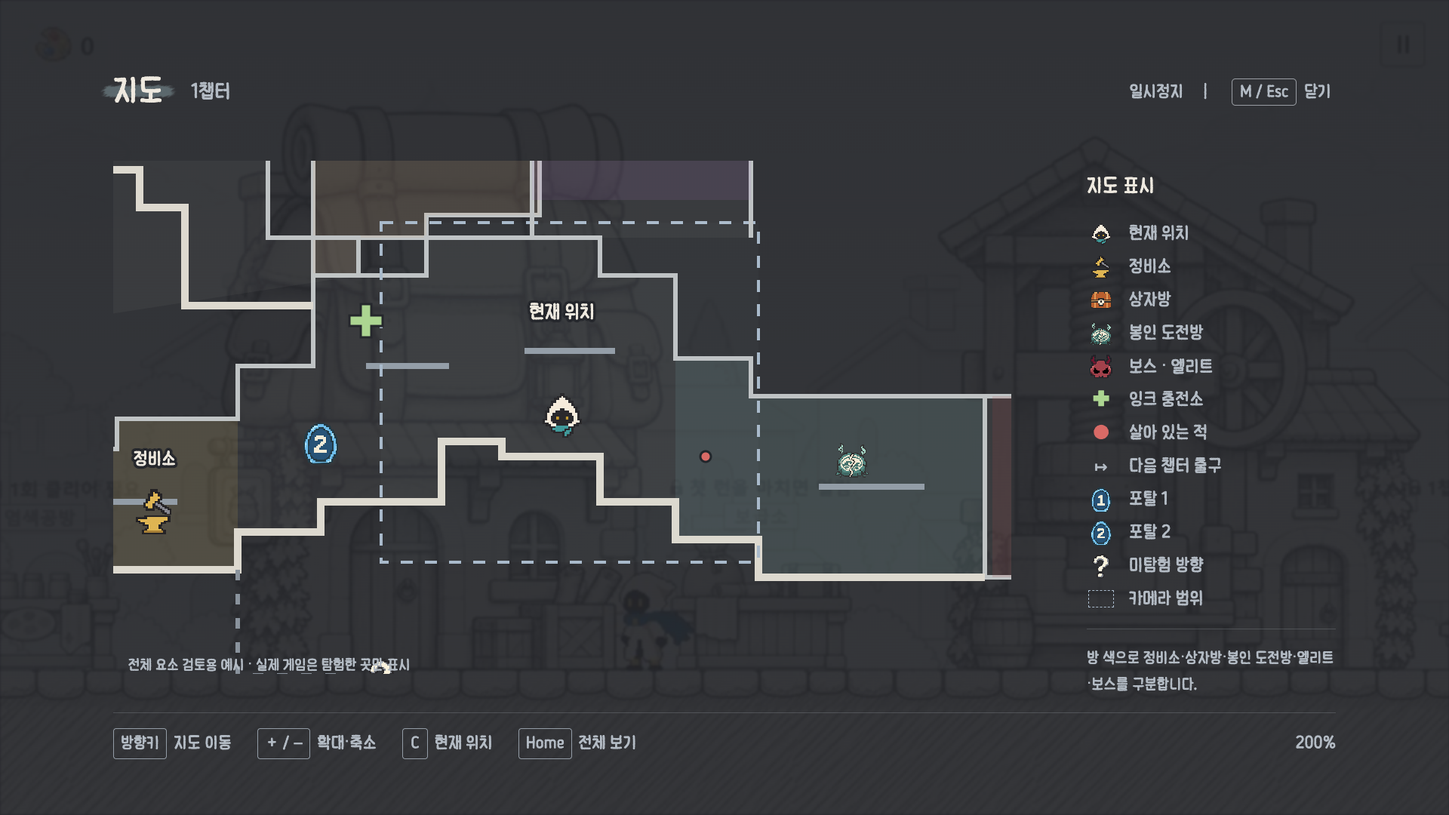
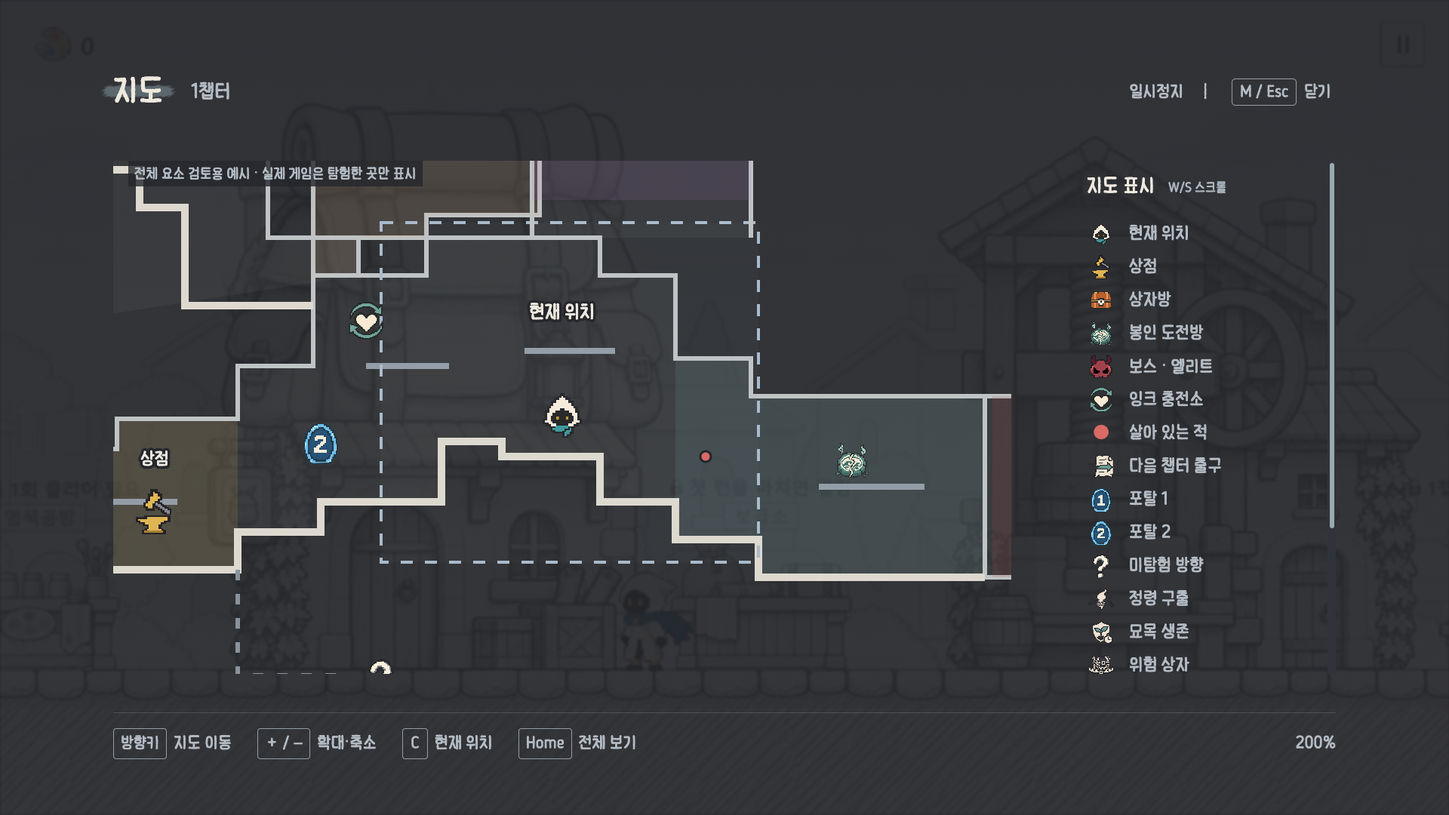
Complete map event previews and document Unity integration boundary

diff --git a/ui/work/theme/ink-pixel-v1/full-map-v1/index.html b/ui/work/theme/ink-pixel-v1/full-map-v1/index.html
@@ -1,6 +1,6 @@
 <!doctype html><html lang="ko"><meta charset="utf-8"><title>Deviant · 전체 지도</title><style>
 @font-face{font-family:Kkuk;src:url(../assembly-v1/fonts/MemomentKkukkukk.ttf)}*{box-sizing:border-box}body{margin:0;background:#24262b;color:var(--paper);font-family:Kkuk,sans-serif}button{font:inherit;color:inherit;background:none;border:0;cursor:pointer}button:focus-visible{outline:2px solid #b5d8e4;outline-offset:8px}.screen{width:1920px;height:1080px;position:relative;transform-origin:0 0;overflow:hidden}.world{position:absolute;inset:0;background:linear-gradient(#24262bf0,#24262bea),url(../screen-set-v6/assets/village.jpg) center/cover;filter:blur(1px)}main{position:relative;margin:0 150px;padding-top:85px}header{display:flex;height:72px;align-items:center;gap:36px}h1{font-size:43px;font-weight:normal;margin:0}header .chapter{font-size:27px;color:var(--muted)}header aside{margin-left:auto;font-size:23px;color:var(--muted)}kbd{font:inherit;font-size:22px;border:1px solid #999da3;border-radius:5px;padding:4px 10px;margin-right:10px}.heading{position:relative;isolation:isolate}.heading:after{content:'';position:absolute;inset:-12px -18px;background:url(../maintenance-palette-v1/assets/selection-wash-v1.png) center/contain no-repeat;opacity:.44;z-index:-1}.maplayout{display:grid;grid-template-columns:1190px 330px;gap:100px;margin-top:56px}.mapviewport{height:680px;position:relative;overflow:hidden;cursor:grab;touch-action:none}.mapviewport:active{cursor:grabbing}svg{width:1190px;height:680px;display:block;overflow:visible}svg text{font-family:Kkuk,sans-serif}.terrain{fill:#eee9df0b;stroke:#bfc3c4;stroke-width:3;stroke-linejoin:miter}.floor{fill:none;stroke:#ddd9cf;stroke-width:5}.platform{stroke:#939da7;stroke-width:4}.frontier{stroke:#8a939d;stroke-width:3;stroke-dasharray:7 9;fill:none}.camera{stroke:#a9bacb;stroke-width:2;stroke-dasharray:8 8;fill:#b5d8e406}.pin{paint-order:stroke;stroke:#25272c;stroke-width:8;stroke-linejoin:round}.legend h2{font-size:27px;font-weight:normal;margin:18px 0 28px;color:var(--paper)}.legend ul{padding:0;list-style:none;display:grid;gap:23px}.legend li{display:flex;align-items:center;gap:20px;font-size:27px;color:var(--muted);min-height:38px}.legend .symbol{width:38px;text-align:center;font-size:28px;display:inline-flex;align-items:center;justify-content:center}.loc{color:#a5ded4}.repair{color:#e0cc83}.boss{color:#e3a89c}.p1,.p2{font-size:26px!important;width:32px!important;height:34px;clip-path:polygon(20% 0,80% 0,100% 20%,100% 80%,80% 100%,20% 100%,0 80%,0 20%);color:var(--muted)}.p1{background:#abd8cf}.p2{background:#c7b2e5}.legend .sep{height:1px;background:#a8afb640;margin:31px 0}.legend p{font-size:23px;line-height:1.65;color:var(--muted)}.legend .cameraKey{border:1px dashed #a9bacb;width:34px;height:23px}.legend .unknown{color:var(--muted)}.footer{position:absolute;bottom:74px;left:150px;right:150px;display:flex;align-items:center;gap:34px;font-size:24px}.footer button{padding:0}.footer .zoom{margin-left:auto;color:var(--muted)}.mapCaption{position:absolute;bottom:0;left:20px;color:var(--muted);font-size:23px}.closed{position:absolute;inset:0;display:none;align-items:center;justify-content:center;background:#24262be8;z-index:3}.closed button{font-size:32px}.closed.show{display:flex}
-.mapIcon,.portalIcon{width:48px;height:48px;flex:none;object-fit:contain;image-rendering:pixelated}.legend li{gap:18px;min-height:48px}.legend ul{gap:8px}.portalIcon{position:relative;display:inline-flex;align-items:center;justify-content:center}.portalIcon img{position:absolute;width:100%;height:100%;image-rendering:pixelated}.portalIcon b{position:relative;font-size:23px;font-weight:normal}svg image{image-rendering:pixelated}.footer .zoom{color:var(--muted)}.legend li{font-size:24px;min-height:39px}.legend ul{gap:5px}.legend .mapIcon{width:38px;height:38px}.legend .sep{margin:20px 0}.legend p{font-size:21px}.mapCaption{font-size:20px} </style><link rel="stylesheet" href="../review-common.css"><div class="screen"><div class="world"></div><main><header><h1 class="heading">지도</h1><span class="chapter">1챕터</span><aside>일시정지　 |　 <button onclick="closeMap()"><kbd>M / Esc</kbd>닫기</button></aside></header><div class="maplayout"><div class="mapviewport" id="viewport"><svg viewBox="0 0 1190 680" role="img" aria-label="전체 요소 검토 지도: 현재 위치, 적, 정비소, 충전소, 상자방, 봉인 도전, 엘리트, 보스, 출구, 포탈 1과 2"><g id="map">
+.mapIcon,.portalIcon{width:48px;height:48px;flex:none;object-fit:contain;image-rendering:pixelated}.legend li{gap:18px;min-height:48px}.legend ul{gap:8px}.portalIcon{position:relative;display:inline-flex;align-items:center;justify-content:center}.portalIcon img{position:absolute;width:100%;height:100%;image-rendering:pixelated}.portalIcon b{position:relative;font-size:23px;font-weight:normal}svg image{image-rendering:pixelated}.footer .zoom{color:var(--muted)}.legend li{font-size:24px;min-height:39px}.legend ul{gap:5px}.legend .mapIcon{width:38px;height:38px}.legend .sep{margin:20px 0}.legend p{font-size:21px}.mapCaption{font-size:20px} .legend{height:680px;overflow-y:auto;padding-right:12px;scrollbar-color:#97aaae #30343a;scrollbar-width:thin}.legend .approvedMapArt{flex:none}.completionBadge{display:none}.eventRoom.completed .completionBadge{display:block}.eventRoom.completed>.fixedMarker>svg{opacity:.5}body{overflow:hidden}.mapCaption{background:#24262bcc;padding:5px 8px;top:0;bottom:auto}.legend h2 small{font-size:18px;color:#acb5c0;margin-left:12px}</style><link rel="stylesheet" href="../review-common.css"><div class="screen"><div class="world"></div><main><header><h1 class="heading">지도</h1><span class="chapter">1챕터</span><aside>일시정지　 |　 <button onclick="closeMap()"><kbd>M / Esc</kbd>닫기</button></aside></header><div class="maplayout"><div class="mapviewport" id="viewport"><svg viewBox="0 0 1190 680" role="img" aria-label="전체 요소 검토 지도: 현재 위치, 적, 상점, 충전소, 상자방, 봉인 도전, 엘리트, 보스, 출구, 포탈 1과 2"><g id="map">
 <path fill="#E4BE55" fill-opacity=".13" d="M415 385H460V365H540V465H455V475H415Z"/>
 <path fill="#78BEB5" fill-opacity=".12" d="M830 325H880V350H1035V470H885V445H830Z"/>
 <path class="terrain" d="M590 270V125H740V230H665V245H620V270Z"/>
@@ -21,13 +21,13 @@
 <g class="fixedMarker" data-x="160.0" data-y="452.0" transform="translate(160.0 452.0)"><image href="assets/portal-1.png" x="-32.0" y="-32.0" width="64" height="64"/></g>
 <g class="fixedMarker" data-x="595.0" data-y="381.0" transform="translate(595.0 381.0)"><image href="assets/portal-2.png" x="-32.0" y="-32.0" width="64" height="64"/></g>
 <g class="fixedMarker" data-x="485.0" data-y="426.0" transform="translate(485.0 426.0)"><image href="assets/workshop-yellow.png" x="-36.0" y="-36.0" width="72" height="72"/></g>
-<g class="fixedMarker" data-x="485" data-y="395" transform="translate(485 395)"><text class="pin" x="0" y="0" text-anchor="middle" font-size="24" fill="#eee9df">정비소</text></g>
+<g class="fixedMarker" data-x="485" data-y="395" transform="translate(485 395)"><text class="pin" x="0" y="0" text-anchor="middle" font-size="24" fill="#eee9df">상점</text></g>
 <g class="fixedMarker" data-x="755.0" data-y="362.0" transform="translate(755.0 362.0)"><image href="assets/player.png" x="-38.0" y="-38.0" width="76" height="76"/></g>
 <g class="fixedMarker" data-x="755" data-y="298" transform="translate(755 298)"><text class="pin" x="0" y="0" text-anchor="middle" font-size="26" fill="#eee9df">현재 위치</text></g>
 <path class="terrain" d="M735 245V75H880V245M1035 350H1180V470H1035"/>
 <path fill="#a372bb" fill-opacity=".14" d="M735 75H880V220H735Z"/><path fill="#a34848" fill-opacity=".16" d="M1040 350H1180V470H1040Z"/>
-<g class="fixedMarker" data-x="805" data-y="140" transform="translate(805 140)"><image href="assets/boss-crimson.png" x="-26.0" y="-26.0" width="52" height="52"/><text class="pin" y="48" text-anchor="middle" fill="#d6b9e2" font-size="22">엘리트</text></g><g class="fixedMarker" data-x="1100" data-y="403" transform="translate(1100 403)"><image href="assets/boss-crimson.png" x="-26.0" y="-26.0" width="52" height="52"/></g><g class="fixedMarker" data-x="625" data-y="300" transform="translate(625 300)"><path fill="#acd591" stroke="#25272c" stroke-width="3" d="M-7-22H7V-7H22V7H7V22H-7V7H-22V-7H-7Z"/></g><g class="fixedMarker" data-x="300" data-y="380" transform="translate(300 380)"><circle r="7" fill="#d96a66" stroke="#22262b" stroke-width="3"/></g><g class="fixedMarker" data-x="360" data-y="270" transform="translate(360 270)"><circle r="7" fill="#d96a66" stroke="#22262b" stroke-width="3"/></g><g class="fixedMarker" data-x="850" data-y="390" transform="translate(850 390)"><circle r="7" fill="#d96a66" stroke="#22262b" stroke-width="3"/></g><g class="fixedMarker" data-x="1160" data-y="403" transform="translate(1160 403)"><svg style="width:50px;height:50px;overflow:hidden" x="-25" y="-25" width="50" height="50" viewBox="390.78 558.78 265.44 265.44"><image href="../ui-assets-v1/atlases/world.png" width="1448" height="1086"/></svg></g></g></svg><div class="mapCaption">전체 요소 검토용 예시 · 실제 게임은 탐험한 곳만 표시</div></div><aside class="legend"><h2>지도 표시</h2><ul><li><img class="mapIcon" src="assets/player.png" alt="">현재 위치</li><li><img class="mapIcon" src="assets/workshop-yellow.png" alt="">정비소</li><li><img class="mapIcon" src="assets/chest.png" alt="">상자방</li><li><img class="mapIcon" src="assets/seal.png" alt="">봉인 도전방</li><li><img class="mapIcon" src="assets/boss-crimson.png" alt="">보스 · 엘리트</li><li><span class="symbol" style="color:#acd591">✚</span>잉크 충전소</li><li><span class="symbol" style="color:#d96a66">●</span>살아 있는 적</li><li><span class="symbol">↦</span>다음 챕터 출구</li><li><img class="mapIcon" src="assets/portal-1.png" alt="">포탈 1</li><li><img class="mapIcon" src="assets/portal-2.png" alt="">포탈 2</li><li><img class="mapIcon" src="assets/unknown.png" alt="">미탐험 방향</li><li><span class="symbol"><i class="cameraKey"></i></span>카메라 범위</li></ul><div class="sep"></div><p>방 색으로 정비소·상자방·봉인 도전방·엘리트·보스를 구분합니다.</p></aside></div></main><footer class="footer"><span><kbd>방향키</kbd>지도 이동</span><span><kbd>＋ / −</kbd>확대·축소</span><button onclick="centerPlayer()"><kbd>C</kbd>현재 위치</button><button onclick="reset()"><kbd>Home</kbd>전체 보기</button><span class="zoom" id="zoom">100%</span></footer><div id="closed" class="closed"><button onclick="openMap()">시안 닫힘　·　<kbd>M</kbd>다시 보기</button></div></div><script>
-let zoom=1,tx=0,ty=0,drag=null,isClosed=false;const map=document.getElementById('map'),vp=document.getElementById('viewport');function fit(){document.querySelector('.screen').style.transform=`scale(${Math.min(innerWidth/1920,innerHeight/1080)})`}onresize=fit;fit();function update(){tx=Math.max(-1190,Math.min(1190,tx));ty=Math.max(-680,Math.min(680,ty));map.setAttribute('transform',`translate(${tx} ${ty}) translate(595 340) scale(${zoom}) translate(-595 -340)`);document.querySelectorAll('.fixedMarker').forEach(el=>el.setAttribute('transform',`translate(${el.dataset.x} ${el.dataset.y}) scale(${1/zoom})`));document.getElementById('zoom').textContent=Math.round(zoom*100)+'%'}function reset(){zoom=1;tx=0;ty=0;update()}function centerPlayer(){tx=-(755-595)*zoom;ty=-(364-340)*zoom;update()}function changeZoom(n){zoom=Math.max(.75,Math.min(2,zoom+n));update()}function closeMap(){isClosed=true;document.getElementById('closed').classList.add('show')}function openMap(){isClosed=false;document.getElementById('closed').classList.remove('show')}document.addEventListener('keydown',e=>{let k=(e.code?.startsWith('Key')?e.code.slice(3).toLowerCase():e.key.toLowerCase());if(k==='m'||k==='escape'){e.preventDefault();isClosed?openMap():closeMap();return}if(isClosed)return;if(['arrowleft','arrowright','arrowup','arrowdown','+','=','-','c','home'].includes(k))e.preventDefault();if(k==='arrowleft')tx+=40;if(k==='arrowright')tx-=40;if(k==='arrowup')ty+=40;if(k==='arrowdown')ty-=40;if(k==='+'||k==='=')changeZoom(.25);if(k==='-')changeZoom(-.25);if(k==='c')centerPlayer();if(k==='home')reset();update()});vp.onwheel=e=>{e.preventDefault();changeZoom(e.deltaY<0?.25:-.25)};vp.onpointerdown=e=>{drag={x:e.clientX,y:e.clientY,tx,ty};vp.setPointerCapture(e.pointerId)};vp.onpointermove=e=>{if(!drag)return;const scale=Math.min(innerWidth/1920,innerHeight/1080);tx=drag.tx+(e.clientX-drag.x)/scale;ty=drag.ty+(e.clientY-drag.y)/scale;update()};vp.onpointerup=()=>drag=null;vp.onpointercancel=()=>drag=null;
-const initialZoom=Number(new URLSearchParams(location.search).get('zoom'));if(initialZoom>=.75&&initialZoom<=2){zoom=initialZoom;centerPlayer()}else update();</script></html>
+<g class="fixedMarker" data-x="805" data-y="140" transform="translate(805 140)"><image href="assets/boss-crimson.png" x="-26.0" y="-26.0" width="52" height="52"/><text class="pin" y="48" text-anchor="middle" fill="#d6b9e2" font-size="22">엘리트</text></g><g class="fixedMarker" data-x="1100" data-y="403" transform="translate(1100 403)"><image href="assets/boss-crimson.png" x="-26.0" y="-26.0" width="52" height="52"/></g><g class="fixedMarker" data-x="625" data-y="300" transform="translate(625 300)"><svg class="approvedMapArt" x="-28.0" y="-28.0" width="56" height="56" viewBox="374.91999999999996 748.42 328.16 328.16" style="width:56px;height:56px;overflow:hidden"><image href="../ui-assets-v1/atlases/seal.png" width="1448" height="1086"/></svg></g><g class="fixedMarker" data-x="300" data-y="380" transform="translate(300 380)"><circle r="7" fill="#d96a66" stroke="#22262b" stroke-width="3"/></g><g class="fixedMarker" data-x="360" data-y="270" transform="translate(360 270)"><circle r="7" fill="#d96a66" stroke="#22262b" stroke-width="3"/></g><g class="fixedMarker" data-x="850" data-y="390" transform="translate(850 390)"><circle r="7" fill="#d96a66" stroke="#22262b" stroke-width="3"/></g><g class="fixedMarker" data-x="1160" data-y="403" transform="translate(1160 403)"><svg style="width:50px;height:50px;overflow:hidden" x="-25" y="-25" width="50" height="50" viewBox="390.78 558.78 265.44 265.44"><image href="../ui-assets-v1/atlases/world.png" width="1448" height="1086"/></svg></g><g class="eventRoom" data-event="0"><rect class="terrain" x="80" y="565" width="150" height="95" style="fill:#8eb6ce;fill-opacity:.13"/><g class="fixedMarker" data-x="155" data-y="610"><svg class="approvedMapArt" x="-28.0" y="-28.0" width="56" height="56" viewBox="26.079999999999984 -20.420000000000016 315.84000000000003 315.84000000000003" style="width:56px;height:56px;overflow:hidden"><image href="../ui-assets-v1/atlases/world.png" width="1448" height="1086"/></svg><g class="completionBadge" transform="translate(28 -22)"><svg class="approvedMapArt" x="-12.0" y="-12.0" width="24" height="24" viewBox="659.62 357.62 249.76000000000002 249.76000000000002" style="width:24px;height:24px;overflow:hidden"><image href="../ui-assets-v1/atlases/controls.png" width="1254" height="1254"/></svg></g></g></g><g class="eventRoom" data-event="1"><rect class="terrain" x="350" y="565" width="150" height="95" style="fill:#8db690;fill-opacity:.13"/><g class="fixedMarker" data-x="425" data-y="610"><svg class="approvedMapArt" x="-28.0" y="-28.0" width="56" height="56" viewBox="387.79999999999995 -15.700000000000017 302.40000000000003 302.40000000000003" style="width:56px;height:56px;overflow:hidden"><image href="../ui-assets-v1/atlases/world.png" width="1448" height="1086"/></svg><g class="completionBadge" transform="translate(28 -22)"><svg class="approvedMapArt" x="-12.0" y="-12.0" width="24" height="24" viewBox="659.62 357.62 249.76000000000002 249.76000000000002" style="width:24px;height:24px;overflow:hidden"><image href="../ui-assets-v1/atlases/controls.png" width="1254" height="1254"/></svg></g></g></g><g class="eventRoom" data-event="2"><rect class="terrain" x="620" y="565" width="150" height="95" style="fill:#c49b77;fill-opacity:.13"/><g class="fixedMarker" data-x="695" data-y="610"><svg class="approvedMapArt" x="-28.0" y="-28.0" width="56" height="56" viewBox="747.0799999999999 -7.920000000000016 315.84000000000003 315.84000000000003" style="width:56px;height:56px;overflow:hidden"><image href="../ui-assets-v1/atlases/world.png" width="1448" height="1086"/></svg><g class="completionBadge" transform="translate(28 -22)"><svg class="approvedMapArt" x="-12.0" y="-12.0" width="24" height="24" viewBox="659.62 357.62 249.76000000000002 249.76000000000002" style="width:24px;height:24px;overflow:hidden"><image href="../ui-assets-v1/atlases/controls.png" width="1254" height="1254"/></svg></g></g></g><g class="eventRoom" data-event="3"><rect class="terrain" x="890" y="565" width="150" height="95" style="fill:#b4a1c9;fill-opacity:.13"/><g class="fixedMarker" data-x="965" data-y="610"><svg class="approvedMapArt" x="-28.0" y="-28.0" width="56" height="56" viewBox="1115.86 -17.640000000000015 301.28000000000003 301.28000000000003" style="width:56px;height:56px;overflow:hidden"><image href="../ui-assets-v1/atlases/world.png" width="1448" height="1086"/></svg><g class="completionBadge" transform="translate(28 -22)"><svg class="approvedMapArt" x="-12.0" y="-12.0" width="24" height="24" viewBox="659.62 357.62 249.76000000000002 249.76000000000002" style="width:24px;height:24px;overflow:hidden"><image href="../ui-assets-v1/atlases/controls.png" width="1254" height="1254"/></svg></g></g></g></g></svg><div class="mapCaption">전체 요소 검토용 예시 · 실제 게임은 탐험한 곳만 표시</div></div><aside class="legend"><h2>지도 표시 <small>W/S 스크롤</small></h2><ul><li><img class="mapIcon" src="assets/player.png" alt="">현재 위치</li><li><img class="mapIcon" src="assets/workshop-yellow.png" alt="">상점</li><li><img class="mapIcon" src="assets/chest.png" alt="">상자방</li><li><img class="mapIcon" src="assets/seal.png" alt="">봉인 도전방</li><li><img class="mapIcon" src="assets/boss-crimson.png" alt="">보스 · 엘리트</li><li><svg class="approvedMapArt" x="-19.0" y="-19.0" width="38" height="38" viewBox="374.91999999999996 748.42 328.16 328.16" style="width:38px;height:38px;overflow:hidden"><image href="../ui-assets-v1/atlases/seal.png" width="1448" height="1086"/></svg>잉크 충전소</li><li><span class="symbol" style="color:#d96a66">●</span>살아 있는 적</li><li><svg class="approvedMapArt" x="-19.0" y="-19.0" width="38" height="38" viewBox="390.78 558.78 265.44 265.44" style="width:38px;height:38px;overflow:hidden"><image href="../ui-assets-v1/atlases/world.png" width="1448" height="1086"/></svg>다음 챕터 출구</li><li><img class="mapIcon" src="assets/portal-1.png" alt="">포탈 1</li><li><img class="mapIcon" src="assets/portal-2.png" alt="">포탈 2</li><li><img class="mapIcon" src="assets/unknown.png" alt="">미탐험 방향</li><li><svg class="approvedMapArt" x="-19.0" y="-19.0" width="38" height="38" viewBox="26.079999999999984 -20.420000000000016 315.84000000000003 315.84000000000003" style="width:38px;height:38px;overflow:hidden"><image href="../ui-assets-v1/atlases/world.png" width="1448" height="1086"/></svg> 정령 구출</li><li><svg class="approvedMapArt" x="-19.0" y="-19.0" width="38" height="38" viewBox="387.79999999999995 -15.700000000000017 302.40000000000003 302.40000000000003" style="width:38px;height:38px;overflow:hidden"><image href="../ui-assets-v1/atlases/world.png" width="1448" height="1086"/></svg> 묘목 생존</li><li><svg class="approvedMapArt" x="-19.0" y="-19.0" width="38" height="38" viewBox="747.0799999999999 -7.920000000000016 315.84000000000003 315.84000000000003" style="width:38px;height:38px;overflow:hidden"><image href="../ui-assets-v1/atlases/world.png" width="1448" height="1086"/></svg> 위험 상자</li><li><svg class="approvedMapArt" x="-19.0" y="-19.0" width="38" height="38" viewBox="1115.86 -17.640000000000015 301.28000000000003 301.28000000000003" style="width:38px;height:38px;overflow:hidden"><image href="../ui-assets-v1/atlases/world.png" width="1448" height="1086"/></svg> 함정 수집</li><li><span class="symbol"><i class="cameraKey"></i></span>카메라 범위</li></ul><div class="sep"></div><p>방 색과 아이콘으로 구분합니다. 완료한 이벤트는 옅은 아이콘과 체크로 표시합니다.</p></aside></div></main><footer class="footer"><span><kbd>방향키</kbd>지도 이동</span><span><kbd>＋ / −</kbd>확대·축소</span><button onclick="centerPlayer()"><kbd>C</kbd>현재 위치</button><button onclick="reset()"><kbd>Home</kbd>전체 보기</button><span class="zoom" id="zoom">100%</span></footer><div id="closed" class="closed"><button onclick="openMap()">시안 닫힘　·　<kbd>M</kbd>다시 보기</button></div></div><script>
+let zoom=1,tx=0,ty=0,drag=null,isClosed=false;const map=document.getElementById('map'),vp=document.getElementById('viewport');function fit(){document.querySelector('.screen').style.transform=`scale(${Math.min(innerWidth/1920,innerHeight/1080)})`}onresize=fit;fit();function update(){tx=Math.max(-1190,Math.min(1190,tx));ty=Math.max(-680,Math.min(680,ty));map.setAttribute('transform',`translate(${tx} ${ty}) translate(595 340) scale(${zoom}) translate(-595 -340)`);document.querySelectorAll('.fixedMarker').forEach(el=>el.setAttribute('transform',`translate(${el.dataset.x} ${el.dataset.y}) scale(${1/zoom})`));document.getElementById('zoom').textContent=Math.round(zoom*100)+'%'}function reset(){zoom=1;tx=0;ty=0;update()}function centerPlayer(){tx=-(755-595)*zoom;ty=-(364-340)*zoom;update()}function changeZoom(n){zoom=Math.max(.75,Math.min(2,zoom+n));update()}function closeMap(){isClosed=true;document.getElementById('closed').classList.add('show')}function openMap(){isClosed=false;document.getElementById('closed').classList.remove('show')}document.addEventListener('keydown',e=>{let k=(e.code?.startsWith('Key')?e.code.slice(3).toLowerCase():e.key.toLowerCase());if(k==='m'||k==='escape'){e.preventDefault();isClosed?openMap():closeMap();return}if(isClosed)return;if(e.code==='KeyW'||e.code==='KeyS'){e.preventDefault();document.querySelector('.legend').scrollBy({top:e.code==='KeyS'?180:-180,behavior:'smooth'});return;}if(['arrowleft','arrowright','arrowup','arrowdown','+','=','-','c','home'].includes(k))e.preventDefault();if(k==='arrowleft')tx+=40;if(k==='arrowright')tx-=40;if(k==='arrowup')ty+=40;if(k==='arrowdown')ty-=40;if(k==='+'||k==='=')changeZoom(.25);if(k==='-')changeZoom(-.25);if(k==='c')centerPlayer();if(k==='home')reset();update()});vp.onwheel=e=>{e.preventDefault();changeZoom(e.deltaY<0?.25:-.25)};vp.onpointerdown=e=>{drag={x:e.clientX,y:e.clientY,tx,ty};vp.setPointerCapture(e.pointerId)};vp.onpointermove=e=>{if(!drag)return;const scale=Math.min(innerWidth/1920,innerHeight/1080);tx=drag.tx+(e.clientX-drag.x)/scale;ty=drag.ty+(e.clientY-drag.y)/scale;update()};vp.onpointerup=()=>drag=null;vp.onpointercancel=()=>drag=null;
+const initialZoom=Number(new URLSearchParams(location.search).get('zoom'));if(initialZoom>=.75&&initialZoom<=2){zoom=initialZoom;centerPlayer()}else update();if(new URLSearchParams(location.search).get('events')==='complete')document.querySelectorAll('.eventRoom').forEach(x=>x.classList.add('completed'));document.querySelector('svg[role=img]').setAttribute('aria-label','상점·충전소·봉인·상자·이벤트4종·보스·포탈 전체 지도 예시');</script></html>
 <script src="../review-font.js"></script>
 <script src="../key-help.js"></script>

diff --git a/ui/work/theme/ink-pixel-v1/catalog-data.js b/ui/work/theme/ink-pixel-v1/catalog-data.js
@@ -907,5 +907,11 @@ const catalogItems=[
     "title": "첫 안내 · 저장된 진행 이어보기",
     "img": "world-flows-v1/previews/opening-resume.png",
     "url": "world-flows-v1/index.html?state=opening-resume"
+  },
+  {
+    "group": "지도",
+    "title": "전체 지도 · 이벤트 4종 완료 표시",
+    "url": "full-map-v1/index.html?events=complete",
+    "img": "full-map-v1/preview-complete.png"
   }
 ];

diff --git a/ui/work/theme/ink-pixel-v1/implementation-specs/UNITY-INTEGRATION-PLAN.md b/ui/work/theme/ink-pixel-v1/implementation-specs/UNITY-INTEGRATION-PLAN.md
@@ -1,0 +1,35 @@
+# Unity 적용 준비 및 승인 범위
+
+2026-11-13 · 팀 저장소 a51d555af를 읽기 전용으로 확인. 실제 Unity 실행·변경 없음. HUD·타이틀은 보류.
+
+## 현재 확인된 구조
+- Unity 6000.6.5f1, uGUI 2.6.0, Input System 1.20.0.
+- `unity/Assets/Deviant/Game/Runtime/TemporaryGameGui.cs`: ScreenSpaceOverlay Canvas, ConstantPixelSize와 FitToWorld. 새 시안의 1920×1080 기준을 기존 배율과 중복 적용하면 안 됨.
+- `TemporaryGameGui.EquipmentBook.cs`: 팔레트·성장·스탬프 등 이전 책 UI도 남아 있음. 이를 현행 제작 화면으로 오인해서 단순 교체하지 않음.
+- `TemporaryGameGui.Input.cs`: LocalInputUIBinding, Poll, Pause/Cancel 소비 및 gameplay 차단 경로 존재.
+- `UI/Runtime/Presentation/ScreenRouter.cs`: 화면 소유권·초점 복귀·PauseSimulation·BlockedInput·Back 처리. `UI/Unity/ScreenInputBinding.cs`는 입력 바인딩 어댑터. 기존 라우터와 중복된 전역 입력 처리기를 만들지 않음.
+- `Run/Runtime/SketchEquipment.cs`: 실제 스케치·등록 잉크·슬롯·기본/색 일치 수치·내구도 상태 제공. RunInkWeapon.Durability/Maximum으로 퍼센트 계산. 임시 HTML 데이터를 런 데이터로 복사하지 않음.
+
+## 연결 전에 해결할 데이터 차이
+**실행용 잉크는 현재 36종이며 기존 승인 패키지는 43종 기준이다.**
+팀 문서 `docs/design/equipment/inks/names-and-descriptions.md`와 `docs/development/data/data-pipeline.md`, RunInkCatalog.Validate의 36종 검증이 일치한다.
+원본은 `data/combat/weapon_ink_run_design.json`, 생성 출력은 `Combat/Resources/RunInks.json`이다.
+36종의 ID·설명·조건·효과와 기존 43종 에셋을 행별 대조해야 한다. 기존 승인 PNG는 삭제하지 않으며, 비활성/재사용/신규 필요를 분리한다. 이 대응 완료 전 실제 가방·제작·장비 데이터 연결 완료를 선언하지 않는다. 메뉴 입력 등 이미 확정된 office hour 규칙은 재결정하지 않는다.
+
+## 첫 적용 제안 — 승인 후에만 팀 저장소 작성
+우선 UI 공통 부품을 검증하는 독립 화면만 만든다.
+- 제안 경로: `unity/Assets/Deviant/UI/ThemePreview/` 아래 테스트 씬·프리팹·보기 전용 코드·테스트용 에셋.
+- 범위: 폰트 로딩, 승인 프레임 분할, 선택 붓칠, 팔레트 3레이어, 1920×1080/960×540 배율, 방향키/F/Esc 초점 이동.
+- 기존 게임 씬·런 저장·게임 규칙·HUD·타이틀 연결은 이 첫 묶음에 포함하지 않는다.
+- 외부 폰트는 팀이 확보한 파일 사용. UI 저장소에 폰트 파일 재배포하지 않는다.
+- resources는 별도 LFS 저장소이므로 정식 원화 반영 및 배포 manifest 갱신은 추가 변경 범위로 명시하고 승인받는다. 초기 검증용 승인 PNG 복사도 팀 저장소 변경에 포함한다.
+- 팀 레포 안에서 새로운 Unity 실행/메타 생성도 변경을 일으킬 수 있으므로 승인 전 실행하지 않는다.
+
+## 검증 후 순서
+1. UI 저장소에서 36종 데이터/에셋 대응표 갱신. 부족한 문양만 별도 검토.
+2. 승인된 공통 부품 테스트 씬을 팀 환경에서 검수. 프레임 모서리·픽셀 샘플링·한국어·포커스 복귀 확인.
+3. 가방→제작→장비: 데이터 어댑터, 제작 확정 잠금, 6칸, 장착/해제 대기 및 자리 교환 예외 연결.
+4. 보상→상점→증강: 실제 후보/가격·중복 지급 차단·재진입 유지 연결.
+5. 설정·결과·로딩·월드 이벤트: 실제 설정/저장/방ID/전환 연결.
+
+각 단계는 실게임 상태 검증이 필요하다. 브라우저 시안 통과는 Unity 구현 통과가 아니다.

diff --git a/ui/work/theme/ink-pixel-v1/implementation-specs/NEXT-IMPLEMENTATION.md b/ui/work/theme/ink-pixel-v1/implementation-specs/NEXT-IMPLEMENTATION.md
@@ -3,7 +3,7 @@
 2026-11-13. UI 시안과 전달 명세를 준비했으나 실제 Unity 적용 검증은 아직 하지 않음.
 
 ## 적용 전에 마무리할 것
-1. 지도에 남은 임시 기호(충전소/출구 등), 이벤트4종의 개별·완료 표시를 승인 에셋과 연결. 승인된 월드 이벤트 아이콘 재사용부터 검토. 지도 전체 완료라고 표시하지 않음.
+1. 지도 시안의 충전소·출구·이벤트4종 및 완료 체크 연결 완료. 실제 방 좌표와 탐험 상태 연결은 Unity 단계에 남음.
 2. 최종 전달 기준 커밋과 에셋 패키지 v2/화면별 ID표를 고정. Unity 프레임워크·Canvas 기준·메뉴 입력 라우터·실제 바인딩·UI 데이터 공급자를 팀 구현 담당과 확인. 새 게임 규칙 결정이 아니라 실제 코드 연결 작업.
 3. 팀에서 사용할 폰트 확보/글리프 범위·말풍선 분할·팔레트3레이어·상태별 아이콘을 작은 테스트 화면에서 확인할 준비. 폰트 파일은 기존 방침대로 배포 패키지 제외.
 
@@ -15,3 +15,6 @@
 5. 마을·지도·월드·이벤트·오프닝: 실제 좌표/팝업 경계/방ID/안내 완료 기록 연결.
 
 이번 office hour에서 대기 시계·안내 재개/저장·이야기 스킵·로딩 실패·고정 메뉴키는 결정됨. 이를 다시 미정으로 돌리지 않음. 예시 HTML 타이머/전투 버튼은 게임 구현이 아님. 타이틀과 전투 HUD 전체는 계속 보류.
+
+## 최신 읽기 검토
+[Unity 연결 계획](UNITY-INTEGRATION-PLAN.md)을 참고. 실행용 잉크가 36종으로 개정되어 43종 승인 에셋과의 ID 대응 재검토가 먼저 필요하다.
